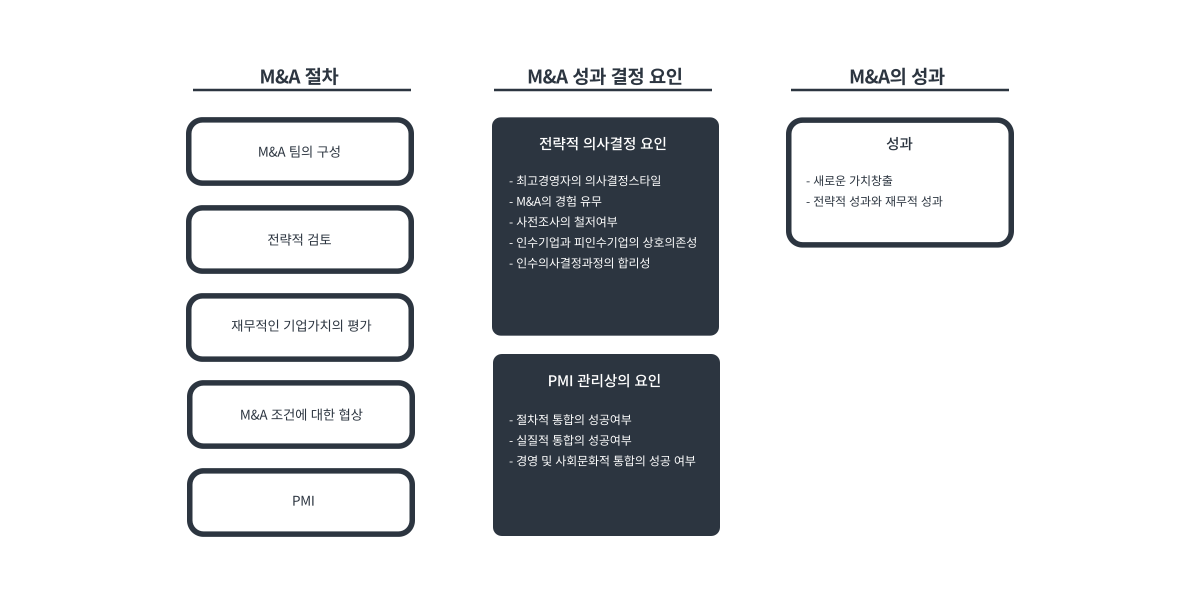
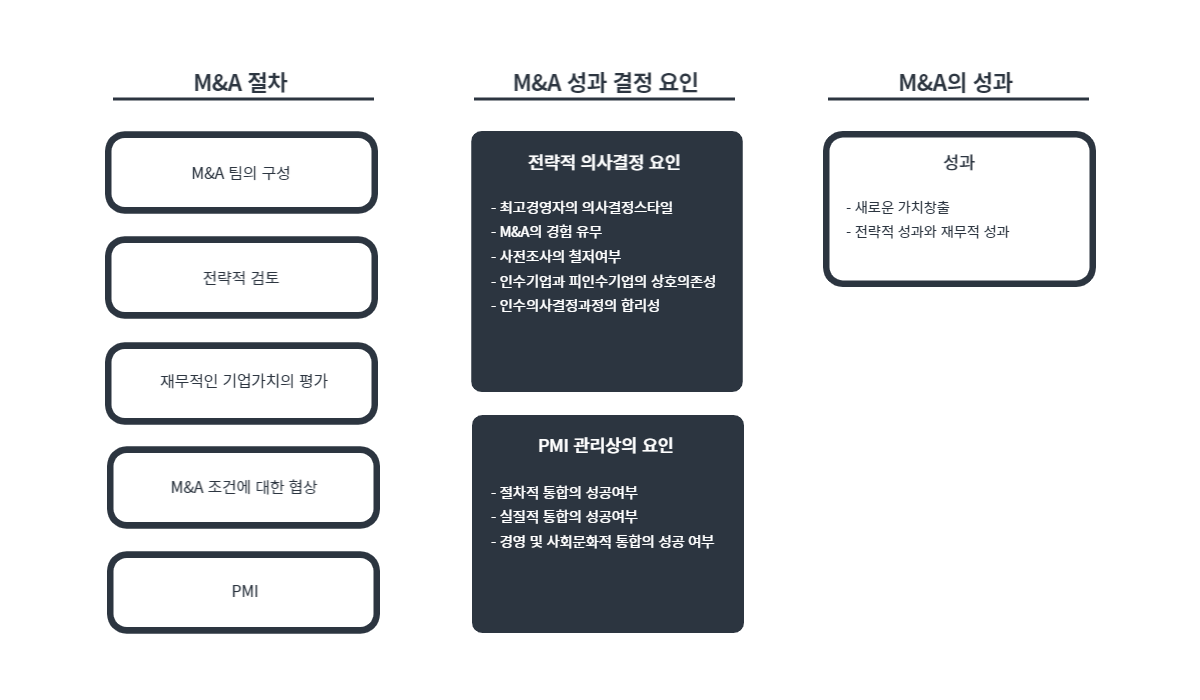
modify css

diff --git a/zetaplan/src/component/Industry/Trade/IndustryTrade4.jsx b/zetaplan/src/component/Industry/Trade/IndustryTrade4.jsx
@@ -22,8 +22,6 @@ const IndustryTrade4 = () => {
 
   /* =================================== */
 
-  const navigate = useNavigate();
-
   return (
     <div>
       <div id="IndustryTrade">
@@ -73,19 +71,16 @@ const IndustryTrade4 = () => {
                 .reverse()
                 .slice(startNum, endNum)
                 .reverse()
-                .map(({num, title, author, date, view}) => {
-                  const goToDetail = () => {
-                    navigate(`/industry/trade/detail/:${num}`);
-                  };
+                .map(({id, num, title, author, date, view}) => {
                   return (
-                    <li className="board-lists" key={num}>
-                      <span className="id-name">{num}</span>
-                      <span className="list-title" onClick={goToDetail}>
-                        {title}
-                      </span>
-                      <span className="list-author">{author}</span>
-                      <span className="list-date">{date}</span>
-                      <span className="list-view">{view}</span>
+                    <li className="board-lists" key={id}>
+                      <a href="">
+                        <span className="id-name">{num}</span>
+                        <span className="list-title">{title}</span>
+                        <span className="list-author">{author}</span>
+                        <span className="list-date">{date}</span>
+                        <span className="list-view">{view}</span>
+                      </a>
                     </li>
                   );
                 })}

diff --git a/zetaplan/src/component/Industry/IndustryDetail/IndustryDetail.jsx b/zetaplan/src/component/Industry/IndustryDetail/IndustryDetail.jsx
@@ -14,7 +14,7 @@ const IndustryDetail = ({title, sub}) => {
       .then(data => setLists(data));
   });
 
-  let {num} = useParams;
+  let {id} = useParams;
 
   return (
     <div id="IndustryDetail">
@@ -24,11 +24,7 @@ const IndustryDetail = ({title, sub}) => {
           <h2 className="company-title">거래정보</h2>
           <div className="company-title-line"></div>
         </div>
-        <div className="detail-container">
-          {[...lists].map(({num, title, author, date, view, content}) => {
-            return <div className="detail-container-header"></div>;
-          })}
-        </div>
+        <div className="detail-container"></div>
       </div>
       <DetailFooter />
     </div>

diff --git a/zetaplan/src/page/MnAIpo/MAResult.jsx b/zetaplan/src/page/MnAIpo/MAResult.jsx
@@ -11,7 +11,6 @@ const MAResult = ({title, sub}) => {
         <section className="mnaipo-maresult-section1">
           <div className="mnaipo-maresult-title-container">
             <h2 className="mnaipo-maresult-title">M&A 성과</h2>
-            <div className="mnaipo-maresult-title-line"></div>
           </div>
           <section className="mnaipo-maresult-section">
             <span className="mnaipo-maresult-part">M&A 성과 결정 요인 및 성과</span>

diff --git a/zetaplan/src/page/MnAIpo/IpoProcess.jsx b/zetaplan/src/page/MnAIpo/IpoProcess.jsx
@@ -26,7 +26,6 @@ const IpoProcess = ({title, sub}) => {
         <section className="mnaipo-ipoprocess-section1">
           <div className="mnaipo-ipoprocess-title-container">
             <h2 className="mnaipo-ipoprocess-title">IPO 프로세스</h2>
-            <div className="mnaipo-ipoprocess-title-line"></div>
           </div>
         </section>
         <section className="mnaipo-ipoprocess-section">

diff --git a/zetaplan/src/page/MnAIpo/IpoSummary.jsx b/zetaplan/src/page/MnAIpo/IpoSummary.jsx
@@ -11,7 +11,6 @@ const IpoSummary = ({title, sub}) => {
         <section className="mnaipo-iposummary-section1">
           <div className="mnaipo-iposummary-title-container">
             <h2 className="mnaipo-iposummary-title">IPO 개요</h2>
-            <div className="mnaipo-iposummary-title-line"></div>
           </div>
         </section>
         <section className="mnaipo-iposummary-section">

diff --git a/zetaplan/src/page/MnAIpo/MAProcess.jsx b/zetaplan/src/page/MnAIpo/MAProcess.jsx
@@ -26,7 +26,6 @@ const MAProcess = ({title, sub}) => {
         <section className="mnaipo-maprocess-section1">
           <div className="mnaipo-maprocess-title-container">
             <h2 className="mnaipo-maprocess-title">M&A 프로세스</h2>
-            <div className="mnaipo-maprocess-title-line"></div>
           </div>
         </section>
         <section className="mnaipo-iporesult-section">

diff --git a/zetaplan/src/page/MnAIpo/IpoResult.jsx b/zetaplan/src/page/MnAIpo/IpoResult.jsx
@@ -11,7 +11,6 @@ const IpoResult = ({title, sub}) => {
         <section className="mnaipo-iporesult-section1">
           <div className="mnaipo-iporesult-title-container">
             <h2 className="mnaipo-iporesult-title">IPO 성과</h2>
-            <div className="mnaipo-iporesult-title-line"></div>
           </div>
         </section>
         <section className="mnaipo-iporesult-section">

diff --git a/zetaplan/src/page/MnAIpo/MASummary.jsx b/zetaplan/src/page/MnAIpo/MASummary.jsx
@@ -11,7 +11,6 @@ const MASummary = ({title, sub}) => {
         <section className="mnaipo-ma-section1">
           <div className="mnaipo-ma-title-container">
             <h2 className="mnaipo-ma-title">M&A</h2>
-            <div className="mnaipo-ma-title-line"></div>
           </div>
         </section>
         <section className="mnaipo-ma-section">

diff --git a/zetaplan/src/component/Industry/IndustryDetail/IndustryBridge.jsx b/zetaplan/src/component/Industry/IndustryDetail/IndustryBridge.jsx
@@ -1,0 +1,7 @@
+import React from "react";
+
+const IndustryBridge = () => {
+  return <div></div>;
+};
+
+export default IndustryBridge;
